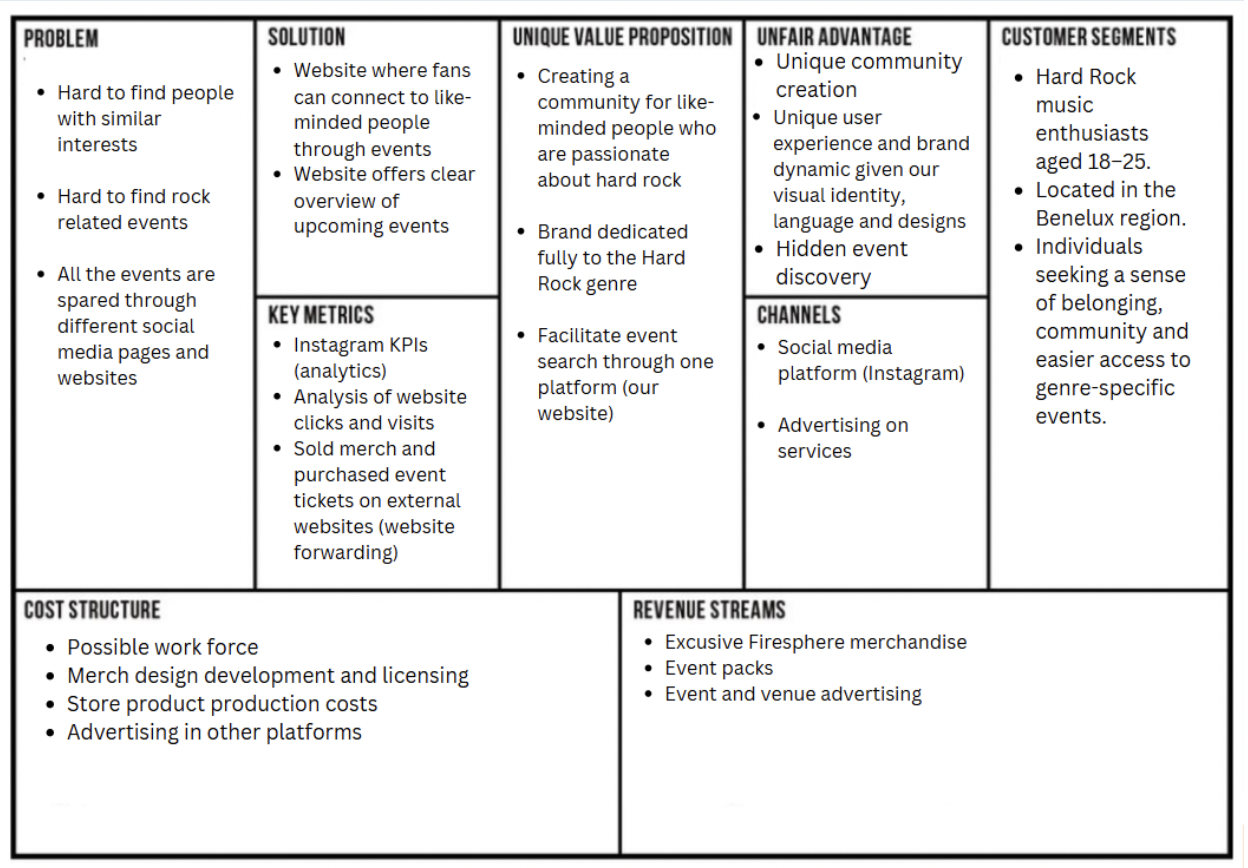
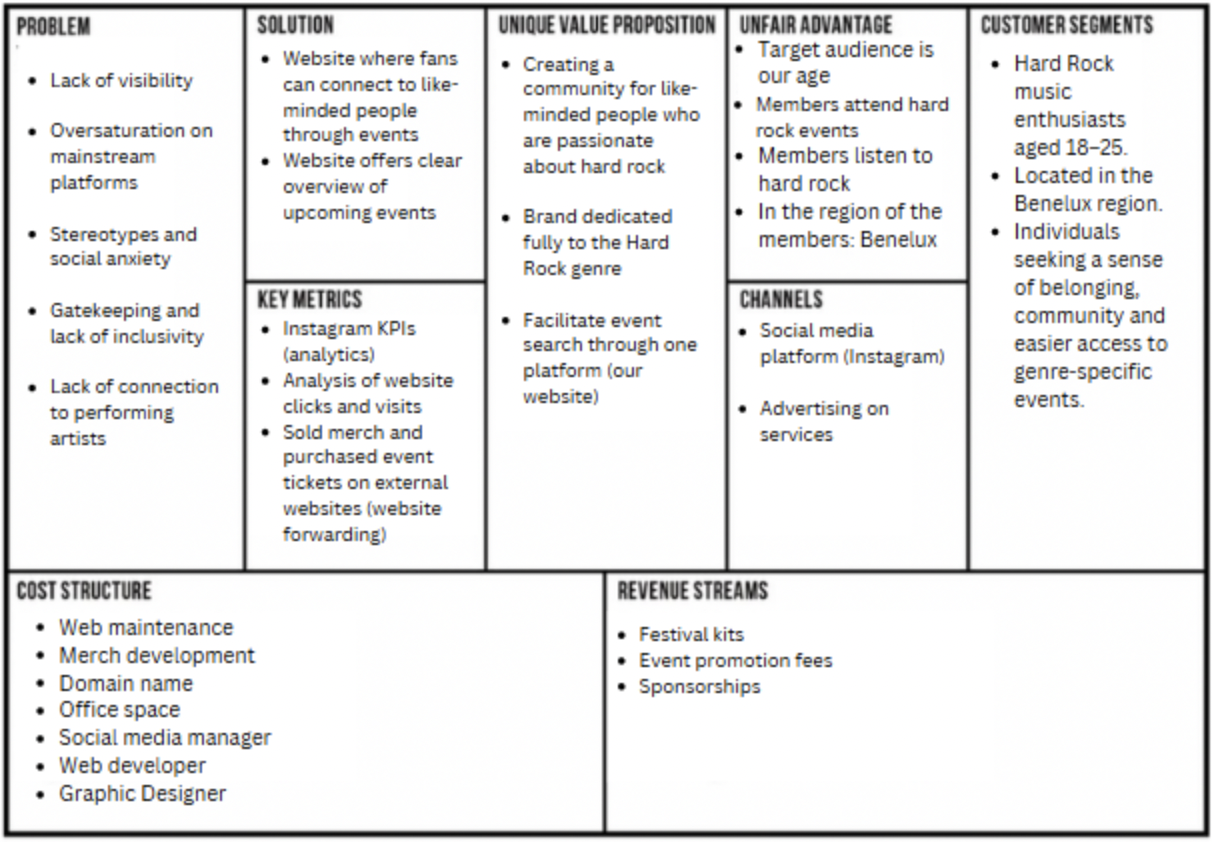
last version s

Changed region(s): [[0.0, 0.0, 1.0, 1.0]]

diff --git a/corporate.html b/corporate.html
@@ -13,7 +13,7 @@
     <!-- Bootstrap Javascript -->
     <script src="https://cdn.jsdelivr.net/npm/bootstrap@5.3.3/dist/js/bootstrap.bundle.min.js" integrity="sha384-YvpcrYf0tY3lHB60NNkmXc5s9fDVZLESaAA55NDzOxhy9GkcIdslK1eN7N6jIeHz" crossorigin="anonymous"></script>
 
-    <title>PRJ4 Base Group Template &mdash; Cards UX</title>
+    <title>Corporate Page</title>
 
     <!-- Google Analytics code goes just below here (check PRJ4 Guide for details) -->
 	 <!fornts>  
@@ -140,21 +140,21 @@
 					  <tr>
 						<td>Selena de Jong</td>
 						<td>
-							Marketing: Context of Campaign and promotional activites, Learning Points, Future Planning, Professionalism, Social Media Management, Social Media Design, Coding; Corporate.
+						  Marketing: Context of Campaign and promotional activites, Learning Points, Future Planning, Professionalism, Coding: Corporate, Management , Social Media Management, Social Media Design.
 						</td>
 					  </tr>
 					  <tr>
 						<td>Marta Ferreira Nunes</td>
 						  <td>
-						  Content: Visual Identity, Mission,Values, Management: Lean canvas, Marketing; context of campaing and promotional activities, Coding; Merch, Social media content, Mockups.</td>
+						  Content,&nbsp; Management , Marketing: context of campaing and promotional activities, Coding: Merch, Social media content, Mockups.</td>
 					  </tr>
 					  <tr>
 						<td>Nidia Kalkman Mangas</td>
-						<td>Main Coding: Layout, Homepage, About us, adding visual styles in every html pages </td>
+						<td>Main Coding:  Homepage, About us, Layout, Visual styles. </td>
 					  </tr>
 					  <tr>
 						<td>Lea Gafsou</td>
-						<td>Management: Validation of Assumptions, Content: Persona, Logo, Social Media Content, Interview Insights, Event Research. Coding: Events</td>
+						<td>Management, Content: Persona, Logo,  Coding: Events, Social Media Content, Interview Insights, Event Research.</td>
 					  </tr>
 			</table>
 			<p><strong>Brand name</strong></p>
@@ -166,13 +166,18 @@
 			<p><strong>Our Vision</strong></p>
 				  <p>In a world where hard rock fans struggle to establish connections and personal style events, we believe in making it easy to unite people through music. Only then can we keep the hard rock fire alive and thriving. In a world where hard rock fans struggle to establish connections and personal style events, we believe in making it easy to unite people through music. Only then can we keep the hard rock fire alive and thriving.</p>
 			<p><strong>Our Values</strong></p>
-      <div class="values-container d-flex flex-wrap">
-        <div class="d-flex w-100">
-          <p class="flex-grow-1 me-2"><strong>Bring in your self-expression.</strong> We promote freedom and self-expression by creating a space where hard rock fans can truly be themselves. It’s about celebrating the power of music and expressing who you really are!</p>
-          <p class="flex-grow-1"><strong>Find your community.</strong> We’re building a space where hard rock fans don’t just get easy access to all events but also share experiences and create a culture with like-minded people through these. Our community thrives on passion, unity and the shared passion for hard rock.</p>
-        </div>
-        <p class="w-50 text-center mx-auto mt-2"><strong>Help us igniting the fire.</strong> "Ignite": verb. meaning to set something on fire or to cause it to start burning. Join us igniting your passion for rock. What will you do next to sustain the fire? The stage is yours!</p>
-      </div>
+ <section>
+  <div class="container text-center mt-6">
+  <div class="row row-cols-2">
+    <div class="col"> <img src="images/stripes_icon.png" width="100"  alt="icon 1"/>
+<h3>Bring in your self-expression:</h3> We promote freedom and self-expression by creating a space where hard rock fans can truly be themselves. It’s about celebrating the power of music and expressing who you really are!   </div>
+    <div class="col"> <img src="images/people _con.png" width="100"  alt="icon 2"/>
+<h3>Find your community: </h3> We’re building a space where hard rock fans don’t just get easy access to all events but also share experiences and create a culture with like-minded people through these. Our community thrives on passion, unity and the shared passion for hard rock. </div>  
+  </div>
+		<div class="col mt-5"> <img src="images/fire_icon.png" width="100"  alt="icon 3"/>
+<h3>Help us igniting the fire: </h3>"Ignite": verb. meaning to set something on fire or to cause it to start burning.  </div>
+</div>
+	</section>	
       <p><strong>Persona</strong></p>
 			<div class="rock-block">
 				<div class="personaimage"><img src="images/persona.png" alt="Picture Persona" width="300"></div>
@@ -220,7 +225,7 @@
           <p style="margin-top: 20px">Our campaign will run for a period of four weeks with our sole focus on Instagram. Our goal is to drive traffic to the website by aligning all content and promotion with a call-to-action that leads the users to our website page, creating an easy and consistent user experience, from discovering the brand to visiting the website, where the landing page is specifically designed to reflect the tone, visuals and purpose of our campaign. This way we can maximize engagement and the relevance of our brand.</p>
           <p>	Our marketing plan is based on both interview findings and web research studies. Based on this, we found that Benelux residents use mostly Facebook and Instagram as main social media platforms. People aged 14 to 22 use WhatsApp and Instagram, which is a big part of our target group. And young audiences, including young rock fans, use mostly TikTok and Instagram. </p>
 			<img src="images/venn-diagram.png" alt="venn-diagram of social media platforms" width="150">
-			<p>Based on all these insights from web research, we understood Instagram is the common platform between all these groups, making it the best platform choice to target our audience. </p>
+			<p style="margin-top: 20px">Based on all these insights from web research, we understood Instagram is the common platform between all these groups, making it the best platform choice to target our audience. </p>
 			<p>As our campaign lifts off, our goal is for our target audience to get familiar with our brand and feel more comfortable within the hard rock scene. We want them to connect with the community, and once familiar, to feel more motivated to attend events. Our campaign will act as a facilitator between silent supporters (fans who hold back when wanting to participate in such events) and the hard rock community. </p>
 			<p><strong>Message:</strong> Bringing hard rock fans together through events. Our platform facilitates connecting passionate like-minded people through unforgettable experiences.</p> 
 			<p><strong>Reach Objective:</strong> By the first week, we aim to reach 100 people to view our page and continuously do so each week. Succes will be measured by checking the analytics on Instagram and website reach/engagement through clicks and searches.</p> 
@@ -327,14 +332,14 @@
           <p class="fw-bold pirata-one-regular">Solution</p>
           <ul>
             <li>With the key insights we got from our interviews, we deducted that our brand could be a bridge between these gaps: helping fans feel more connected to the community and comfortable exploring live events. We observed that there are plenty of artists our target group hasn’t discovered yet. </li>
-			<li>Pivot: With our platform we could help introduce our costumers to new bands in a curated, welcoming way, making it easier and more exciting to engage with the scene, and finding a safe community.</li>
+			<li>With our platform we could help introduce our costumers to new bands in a curated, welcoming way, making it easier and more exciting to engage with the scene, and finding a safe community.</li>
 			</ul>
 			<p>Which is why we are creating a website where fans can connect to like-minded people through events and a website that offers a clear overview of upcoming events.</p>
 	  
           <p class="fw-bold pirata-one-regular">Customer segments</p>
           <ul>
             <li>Our customer segments are Hard Rock music enthusiasts aged 18 to 25 that are located in the Benelux region. Our target group are individuals seeking a sense of belonging, community and easier access to genre-specific events. All the people we have interviewed fall into this category. We have chosen this target group because we feel that they lack a platform where finding events and a community based on their age and demographic can be a struggle. When we did our interviews, we repeatedly heard that finding events that cater to their liking is a struggle. One of the biggest challenges is finding hard rock events.</li>
-            <li>Pivot: Hard rock fans that are over the age of 40 have been attending hard rock events for a long time and know exactly where to look and where to go. Younger fans often find themselves struggling with the search. Platforms like Ticketmaster want to make profit and advertise any types of mainstream events, which makes it harder to find your niche. With our website, we are hoping to ease the search for hard rock events for real fans, and have a younger audience attend these events, where they can find each other and build a community and further broaden their love for hard rock.</li>
+            <li>Hard rock fans that are over the age of 40 have been attending hard rock events for a long time and know exactly where to look and where to go. Younger fans often find themselves struggling with the search. Platforms like Ticketmaster want to make profit and advertise any types of mainstream events, which makes it harder to find your niche. With our website, we are hoping to ease the search for hard rock events for real fans, and have a younger audience attend these events, where they can find each other and build a community and further broaden their love for hard rock.</li>
           </ul>
           <p class="fw-bold pirata-one-regular">Unique value proposition</p>
           <ul>
@@ -349,27 +354,32 @@
             <li>The channels we have chosen to use to advertise our brand are social media, including Instagram and advertising on services. We have chosen Instagram based off our interviews as most of the people we have interviewed use Instagram the most. It is also a platform often used for our target age which is between 18 and 25 (Statista, 2024) </li>
           </ul>
           <p class="fw-bold pirata-one-regular">Key metrics</p>
-          <ul>
-            <li>List the key numbers that tell you how your brand experience is doing.</li>
-            <li>For example amount of users, downloads, visitors, subscriptions, sales etc. Numbers you are able to measure.</li>
-          </ul>
+         <li>For measuring success of our Instagram marketing campaign we will use KPIs based on the Instagram analytics system in which we can see the reach of our posts, interactions and engagement.</li>
+		<li>For the analysis of our website success we will measure the clicks and visits which reflect its traffic and engagement.</li> 
+	  	<li>To make sure our brand is also performing well, we will measure it by the purchased merch (festival kits) and see the traffic from our website to others, based on clicks in our forwarding buttons located on the events section of the website.</li>
           <p class="fw-bold pirata-one-regular">Revenue streams</p>
-          <ul>
-            <li>List your sources of revenue: describe the revenue model and the (different) revenue stream(s).</li>
-          </ul>
+	  <p>
+		  <ul>
+			  <li>Festival Kits: On our website we offer festival kits. Designed for people to buy to be prepared for their next event. It includes necessities people would feel encouraged to buy, such as merch, beer and dextro. We make revenue off this as we offer them for more than our costs.Besides physical products it also includes a 10% discount on their event ticket, received through a code in their email. Encouraging people to buy the kit.</li>
+				<li>Event promotion fees: On our website and Instagram, we will promote and display events. These events pay a fee to get featured on our platform. By doing this they can reach the younger generation of hard rock fans and broaden their visibility and engagement. </li>
+				<li>Sponsorships: Brands and venues sponsor us to promote their products/name on our Instagram and/or festival kits. Through this collaborative approach, we’re able to strengthen our brand credibility and maximize the quality of our festival kits. Whilst they generate more consumers and boost sales.</li>
+	  </ul>
+	  </p>
+         
           <p class="fw-bold pirata-one-regular">Cost structure</p>
-          <ul>
-            <li>List your main costs: define the fixed and variable costs.</li>
-            <li>Calculate the cost per unit.</li>
-          </ul>
-          <p class="fw-bold pirata-one-regular">Services/products</p>
-          <ul>
-            <li>State what your product and/or service is and how this contributes to your unique value proposition.</li>
-            <li>Clarify the fit between the product/service developed and the brand identity/brand image.</li>
-          </ul>
+	  <img src="images/coststructure.png" alt="Cost Structure" width="700">
+	  
+          <p class="fw-bold pirata-one-regular" style="margin-top: 20px">Services/products</p>
+         <div><p>At Firesphere we connect fans with the hard rock community by helping them find genre-specific events where they can meet like-minded fans. Unlike general event platforms, Firesphere focuses solely on hard rock, offering a more authentic and curated experience. By centralizing events, updates, and community interaction, we make it easier for fans to stay in the loop and fuel their passion all in one place.</p></div> 
+	  	<div><p>Firesphere’s product (a hard rock event discovery platform) perfectly aligns with its bold, edgy, and energetic brand identity. The design choices, such as gritty typography, vibrant red and purple accents, and vintage poster aesthetics, mirror the raw and intense atmosphere of rock concerts. Just like our service connects fans to real, live events, our visual identity captures that same adrenaline-fueled spirit. Everything from the color palette to the typography speaks directly to the hard rock community, reinforcing our commitment to authenticity and passion for the genre. </p></div>
 
           <h4 id="management-2" class="mt-2 pirata-one-regular">Validation of Assumptions</h4>
-          <p>Write a reflection on the choices made in creating choosing the trademark, including an analysis of the existing alternatives.</p>
+          <p>
+			  <strong>Assumption 1:</strong> hard rock fans struggle finding events that fall into their niche 
+After testing: We found that having a page related to events that cater to events that cater to our specific target audience, made it easier for them to find themselves in an environment that allows them to find events that are specific to them. We received positive feedback on that. One of the people we tested said that having one platform dedicated to only that was very helpful.
+
+		  <div><strong>Assumption 2:</strong> hard rock fans want to find a community 
+After testing: We found that our target audience enjoys the feel of the website as it is fully in their hard rock aesthetic and they feel understood and seen by it. We also heard from the people we tested that if they can find these events in an easier way, it will help them attend them, find like-minded people, make friends and build a community.</div></p>
 
           <!-- End Management, start Appendix -->
           
